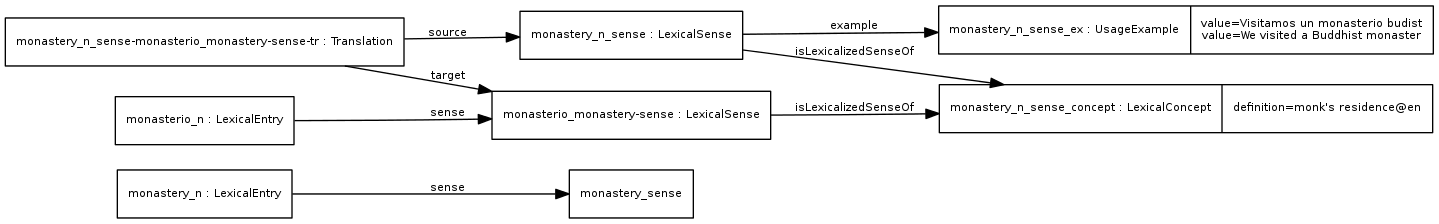
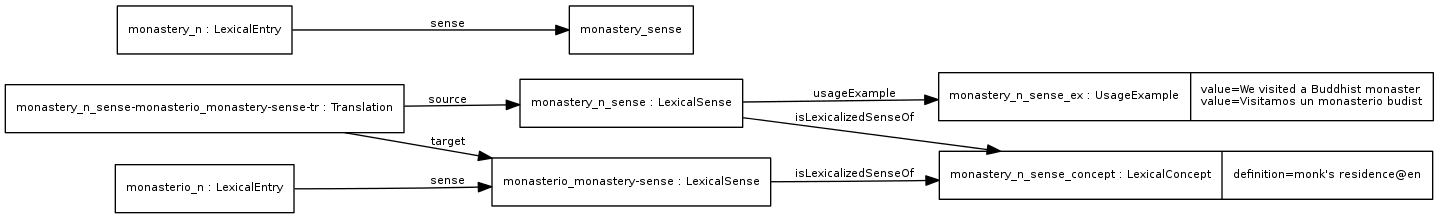
example->usageExample and dct-> dc in core diagram, image example 8

diff --git a/index.html b/index.html
@@ -126,10 +126,10 @@ img.example { max-width:100%; margin-left:auto;margin-right:auto;display:block;}
     <section id='abstract'>
       <p>
        This document describes the <em>lexicography module</em> of the Lexicon Model for Ontologies (<em>lemon</em>) as a result of the work of the Ontology Lexicon community group (OntoLex). The module is targeted at the representation of dictionaries and any other linguistic resource containing lexicographic data, and addresses structures and annotations commonly found in lexicography. This module operates in combination with the <em>lemon</em> core module, referred to as <em>OntoLex</em>. </p>
-	   <p> The RDF file with the OntoLex lemon lexicography module can be found at <a href="http://www.w3.org/ns/lemon/lexicog">http://www.w3.org/ns/lemon/lexicog</a>   
+	   <p> The RDF file with the OntoLex lemon lexicography module can be found at <a href="http://www.w3.org/ns/lemon/lexicog">http://www.w3.org/ns/lemon/lexicog</a>
 	  </p>
     </section>
-	
+
     <section id='sotd'>
      <p>There are a number of ways that one may participate in future developments of this report:</p>
       <ul>
@@ -236,7 +236,7 @@ Modelling existing dictionaries as linked data can be done by first extracting t
 	  The following diagram depicts the OntoLex lexicography module (<i>lexicog</i>). Boxes represent classes of the model. Arrows with filled heads represent object properties, while arrows with empty heads represent the <tt>rdfs:subClassOf</tt> relation. Note that the module provides elements to account for structures common in lexicographic resources (shaded in blue) as well as some to capture annotations and additional information describing lexical elements as found in dictionaries (shaded in orange).
 
     <figure>
-        <img src="img/ontolex-lexicography-module_v.4.png" title="ontolex-lexicography-module_v.4.png" alt="ontolex-lexicography-module_v.4.png" ><figcaption>The OntoLex lexicography module (lexicog). The upper part accounts for structures common in lexicographic resources and the bottom part describes the lexicon, i.e., the elements describing the lexical information.</figcaption>
+        <img src="img/ontolex-lexicography-module_v.5.png" title="ontolex-lexicography-module_v.5.png" alt="ontolex-lexicography-module_v.5.png" ><figcaption>The OntoLex lexicography module (lexicog). The upper part accounts for structures common in lexicographic resources and the bottom part describes the lexicon, i.e., the elements describing the lexical information.</figcaption>
     </figure>
 
 
@@ -271,7 +271,7 @@ Modelling existing dictionaries as linked data can be done by first extracting t
 	  <section>
 	  <h3>Entry</h3>
 
-    <p>The class <a href="#Entry">Entry</a> is introduced to represent the entry as it is encoded in a lexicographic resource, e.g. a dictionary entry, thereby reflecting the arrangement decided upon by the lexicographer (supported by the occurrences of the word or phrase in the corpus used for dictionary compilation). This class is thus intended to be the counterpart of the lemon lexical entry (<tt>ontolex:LexicalEntry</tt>) in the linked data representation of a dictionary, and fulfills a structural function. 
+    <p>The class <a href="#Entry">Entry</a> is introduced to represent the entry as it is encoded in a lexicographic resource, e.g. a dictionary entry, thereby reflecting the arrangement decided upon by the lexicographer (supported by the occurrences of the word or phrase in the corpus used for dictionary compilation). This class is thus intended to be the counterpart of the lemon lexical entry (<tt>ontolex:LexicalEntry</tt>) in the linked data representation of a dictionary, and fulfills a structural function.
 
     <div id="Entry" class='entity'>
     <h3>Entry (Class)</h3>
@@ -336,7 +336,7 @@ adj.
   <p>In this example, a dictionary provides one single dictionary entry for the word <i>animal</i>, comprising its noun and adjective definitions under one same structure. This is not compliant with the definition of <tt>ontolex:LexicalEntry</tt>, which requires a single part of speech. Therefore, a <tt>lime:Lexicon</tt> accounting for the lexical information in this dictionary will contain two lexical entries, one per part of speech. On the other hand, an instance of the <a href="#LexicographicResource"> Lexicographic Resource </a> class will gather entities <i>as they were presented in the original dictionary</i> in order to keep track of the original representation. In this example, <i>animal</i> will be the only entry of the lexicographic resource:
   </p>
 
- 
+
    <div class='beispiel'>
 		<p><a href='Examples/new-png/example1_LexicographicResource.png' class='tn'/><img src='Examples/new-png/example1_LexicographicResource.png' width="100%"/></a></p>
 		<div>
@@ -370,7 +370,7 @@ adj.
 	 <p>A <a href="#LexicographicComponent">lexicographic component</a> is a structural element in the <a href="#LexicographicResource">lexicographic resource</a> that represents either a lexicographic record or any other sub-structure to refer to senses, sense groups, or nested entries. Lexicographic components do not necessarily describe lexical data but can often fulfill a grouping function to gather other components that do. <a href="#Entry">Entry</a> is a particular subclass of <a href="#LexicographicComponent">Lexicographic Component</a> used to represent the main "entry point" in the dictionary, i.e., the headword or the root of the lexicographic record.
 	 The <a href="#LexicographicComponent">lexicographic components</a> can describe lexical senses (<tt>ontolex:LexicalSense</tt>) or lexical entries (<tt>ontolex:LexicalEntry</tt>), depending on the arrangement in the original resource. Components can in turn be arranged in a specific order and/or hierarchy or just be declared to be part of an <a href="#Entry">entry</a>. </p>
 
-   
+
         <div id="LexicographicComponent" class='entity'>
       <h3>Lexicographic Component (Class)</h3>
       <div>
@@ -471,7 +471,7 @@ Following our example, we can use the <a href="#describes">describes</a> propert
 </p></div>
 
 
-The following code extends the previous example by adding more subcomponents that describe the four senses that can be found in the <a href="#ExampleAmericanHeritage">original  lexicographic record</a>. In this example we capture the sense order by using the RDF native mechanisms for <a href="https://www.w3.org/TR/rdf-schema/#ch_containervocab">containers</a>, in particular <tt>rdfs:ContainerMembershipProperty (rdf:_1, rdf:_2, ...)</tt>. 
+The following code extends the previous example by adding more subcomponents that describe the four senses that can be found in the <a href="#ExampleAmericanHeritage">original  lexicographic record</a>. In this example we capture the sense order by using the RDF native mechanisms for <a href="https://www.w3.org/TR/rdf-schema/#ch_containervocab">containers</a>, in particular <tt>rdfs:ContainerMembershipProperty (rdf:_1, rdf:_2, ...)</tt>.
 
 <div class='beispiel'>
   <p><a href='Examples/new-png/example4_senses.png' class='tn'/><img src='Examples/new-png/example4_senses.png' width="100%"/></a></p>
@@ -606,7 +606,7 @@ In our running example, we have represented so far the structural components of 
 
     <h3 id=subComponent>subComponent</h3>
 
-There are cases in which lexicographic components are arranged in a particular hierarchy: a dictionary entry may include a list of senses (even with sub-senses) or sub-entries. 
+There are cases in which lexicographic components are arranged in a particular hierarchy: a dictionary entry may include a list of senses (even with sub-senses) or sub-entries.
 This can be expressed by means of the RDF native mechanisms for <a href="https://www.w3.org/TR/rdf-schema/#ch_containervocab">containers</a>. In the case that it is necessary to explicitly reflect that this is a hierarchical relation between lexicographic components, the <tt>lexicog:subComponent</tt> property can be used instead of, or in addition to, such RDF container mechanisms.
 
 
